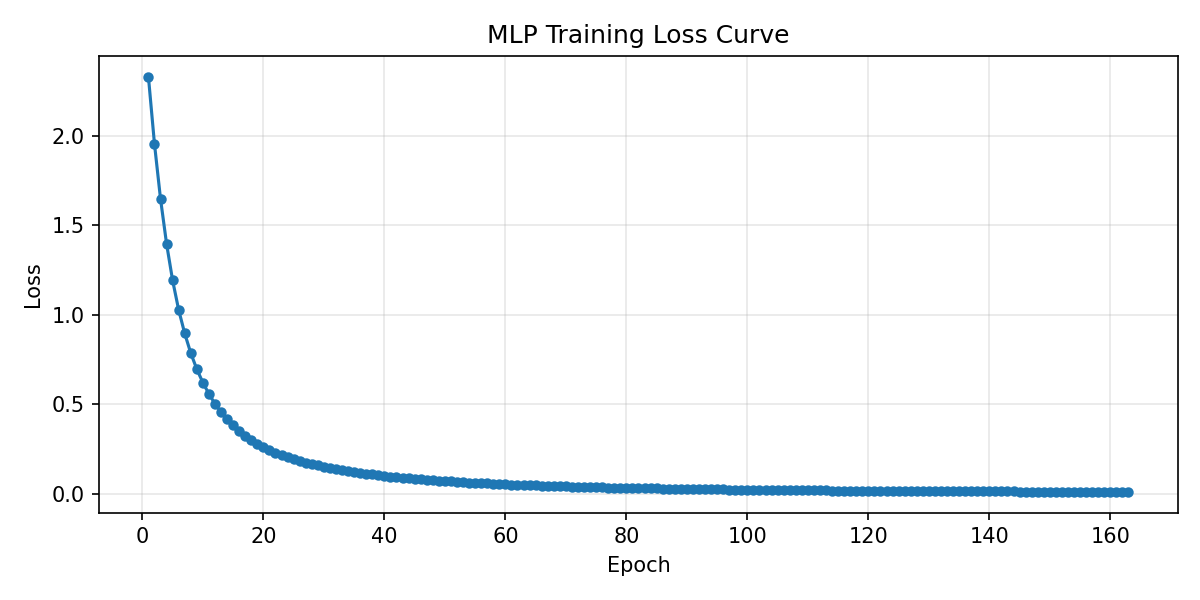
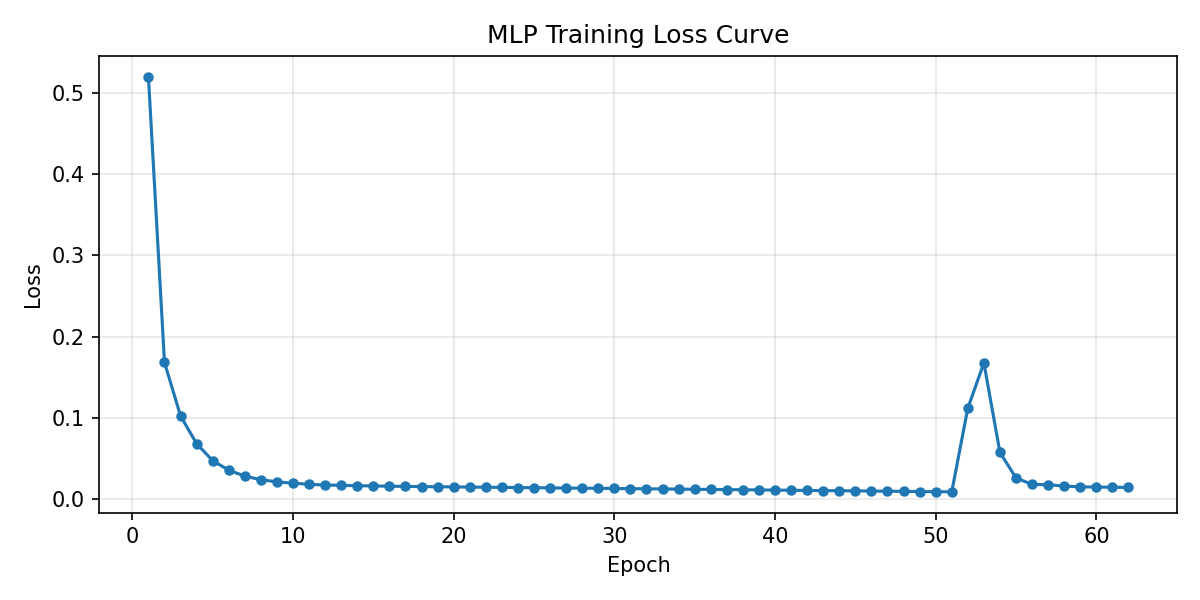
Add a code for hyperparameter search and for using the actual real mnist dataset from the provided csv

diff --git a/deep_learning/mnist_problem/mnist_detection_mlp.py b/deep_learning/mnist_problem/mnist_detection_mlp.py
@@ -2,9 +2,9 @@
 """
 一个简单的手写数字识别小项目（MLP 版本，且导出的图片标签不重复）：
 
-1. 使用 scikit-learn 自带的手写数字数据集（8x8 像素灰度图）
+1. 使用本地的 `mnist_train_small.csv`（28x28 像素灰度图按行展开）
 2. 使用 MLPClassifier（多层感知机）进行数字分类
-3. 将测试集用 PCA 降到 2 维并可视化
+3. 在测试集上绘制混淆矩阵评估分类效果
 4. 从测试集中选取若干张图片，根据“预测结果.png”命名导出
 5. ✅ 新逻辑：只导出“预测结果标签互不相同”的图片，比如 1.png、3.png、4.png
 6. 导出的 PNG 会被放大到 128x128 像素，更容易看清数字
@@ -15,25 +15,29 @@
 
 import numpy as np
 import matplotlib.pyplot as plt
-from sklearn import datasets
-from sklearn.model_selection import train_test_split
+from pathlib import Path
+from sklearn.model_selection import train_test_split, GridSearchCV
 from sklearn.preprocessing import StandardScaler
-from sklearn.decomposition import PCA
-from sklearn.metrics import accuracy_score
+from sklearn.metrics import accuracy_score, confusion_matrix, ConfusionMatrixDisplay
 from sklearn.neural_network import MLPClassifier  # 使用 MLP 神经网络
 from PIL import Image  # 用来把 8x8 图放大并保存为 PNG
 
 
 def main():
     # 1. 加载数据集
-    print("📥 正在加载手写数字数据集...")
-    digits = datasets.load_digits()
+    print("📥 正在从 mnist_train_small.csv 加载手写数字数据集...")
+    csv_path = Path(__file__).with_name("mnist_train_small.csv")
+    if not csv_path.exists():
+        raise FileNotFoundError(
+            f"未找到 {csv_path}，请确认数据文件存在。"
+        )
 
-    # X: 每张 8x8 灰度图展平后的 64 维向量
-    # y: 标签（数字 0~9）
-    X = digits.data
-    y = digits.target
-    images = digits.images  # 原始 8x8 图片，用于后面保存 PNG
+    data = np.loadtxt(csv_path, delimiter=",", dtype=np.float32)
+
+    # 前一列是标签（数字 0~9），其余 784 列是 28x28 灰度图展平后的像素
+    y = data[:, 0].astype(int)
+    X = data[:, 1:]
+    images = X.reshape(-1, 28, 28)
 
     print(f"✅ 数据加载完成，一共包含 {len(X)} 个样本。")
 
@@ -56,24 +60,33 @@ def main():
     X_test_scaled = scaler.transform(X_test)
     print("✅ 标准化完成。")
 
-    # 4. 使用 MLPClassifier 训练一个小神经网络
-    #    max_iter 可以近似理解为“最多训练多少个 epoch”
-
-    max_iter = 300
-    clf = MLPClassifier(
-        hidden_layer_sizes=(64),
-        activation="relu",
-        solver="adam",               # 用随机梯度下降
-        alpha=0.01,
-        max_iter=max_iter,                 # 最多训练多少个epoch
-        validation_fraction=0.1,
-        random_state=42,
+    # 4. 通过网格搜索寻找更优的超参数
+    base_clf = MLPClassifier(max_iter=200, random_state=42)
+    param_grid = {
+        "hidden_layer_sizes": [(128,), (128, 64), (256, 128)],
+        "alpha": [1e-3, 1e-2],
+        "learning_rate_init": [1e-3, 5e-4],
+    }
+    search = GridSearchCV(
+        estimator=base_clf,
+        param_grid=param_grid,
+        cv=3,
+        n_jobs=-1,
+        verbose=1,
     )
 
-    print(f"🤖 正在训练 MLP 神经网络分类器（max_iter = {max_iter}，对应约 {max_iter} 个 epoch）...")
+    print("🔎 正在进行 GridSearchCV 超参数搜索...")
+    search.fit(X_train_scaled, y_train)
+    clf = search.best_estimator_
+    print(
+        "✅ 超参数搜索完成：",
+        search.best_params_,
+        f"（均值验证得分：{search.best_score_:.4f}）",
+    )
 
+    print("🤖 使用最佳超参数重新训练最终模型...")
     clf.fit(X_train_scaled, y_train)
-    print("✅ 模型训练完成。")
+    print("✅ 最终模型训练完成。")
 
     # 额外保存一次损失曲线，方便观察模型收敛情况
     if getattr(clf, "loss_curve_", None):
@@ -101,68 +114,35 @@ def main():
     acc = accuracy_score(y_test, y_pred)
     print(f"✅ 模型在测试集上的准确率为：{acc:.2f}")
 
-    # 6. 使用 PCA 将测试集降到 2 维并进行可视化
-    print("🖼 正在对测试集进行 PCA 降维并可视化结果...")
-    pca = PCA(n_components=2)
-    X_test_pca = pca.fit_transform(X_test_scaled)
+    # 6. 生成并保存混淆矩阵
+    print("🧮 正在生成混淆矩阵可视化...")
+    cm = confusion_matrix(y_test, y_pred, labels=range(10))
+    fig, ax = plt.subplots(figsize=(8, 6))
+    disp = ConfusionMatrixDisplay(confusion_matrix=cm, display_labels=range(10))
+    disp.plot(ax=ax, cmap="Blues", colorbar=False)
+    ax.set_title("Digits classification with MLP (Confusion Matrix)")
+    fig.tight_layout()
 
-    plt.figure(figsize=(8, 6))
-
-    # 按“模型预测的标签”上色，看看不同数字在 2D 空间里的分布
-    scatter = plt.scatter(
-        X_test_pca[:, 0],
-        X_test_pca[:, 1],
-        c=y_pred,
-        cmap="tab10",
-        alpha=0.7,
-        edgecolors="k",
-        s=40,
-    )
-
-    # 用红圈标出预测错误的样本（如果有）
-    mis_idx = y_pred != y_test
-    if np.any(mis_idx):
-        plt.scatter(
-            X_test_pca[mis_idx, 0],
-            X_test_pca[mis_idx, 1],
-            facecolors="none",
-            edgecolors="red",
-            s=80,
-            linewidths=1.5,
-            label="Misclassified samples",
-        )
-
-    # 图上的文字用英文，避免中文字体 warning
-    plt.title("Digits classification with MLP (PCA on test set)")
-    plt.xlabel("PCA component 1")
-    plt.ylabel("PCA component 2")
-
-    cbar = plt.colorbar(scatter)
-    cbar.set_label("Predicted label")
-
-    plt.legend()
-    plt.tight_layout()
-
-    pca_plot_path = "pca_scatter.png"
-    plt.savefig(pca_plot_path, dpi=200)
+    confusion_path = "confusion_matrix.png"
+    fig.savefig(confusion_path, dpi=200)
     backend = plt.get_backend().lower()
     if "agg" not in backend:
         plt.show()
-        plt.close()
+        plt.close(fig)
         print(
-            f"✅ 可视化完成，图像窗口已显示，并已保存为 {pca_plot_path}。"
+            f"✅ 混淆矩阵已显示，并保存为 {confusion_path}。"
         )
     else:
-        plt.close()
+        plt.close(fig)
         print(
-            f"✅ 可视化完成，因当前后端为 {backend}，直接保存为 {pca_plot_path}。"
+            f"✅ 混淆矩阵已保存为 {confusion_path}（当前后端：{backend}）。"
         )
 
     # 7. 从测试集中选取图片，放大后保存为“预测结果.png”
     #    ✅ 新逻辑：只保存“预测结果不重复”的图片
     print("💾 正在从测试集中选取图片并保存为放大后的 PNG 文件（预测结果互不重复）...")
     num_to_save = 5         # 希望保存的“不同数字”的数量
-    scale = 32               # 放大倍数：8 * 32 = 256，所以输出 256x256 像素
+    scale = 16               # 放大倍数：8 * 16 = 128，所以输出 128x128 像素
 
     saved_labels = set()     # 已经保存过的数字标签
     saved_count = 0
@@ -177,7 +157,7 @@ def main():
         if pred_label in saved_labels:
             continue
 
-        # digits.images 的像素值范围大约是 0~16，这里线性放大到 0~255
+        # CSV 中的像素范围是 0~255，这里保持同样的范围
         max_val = img.max()
         if max_val == 0:
             img_norm = img
